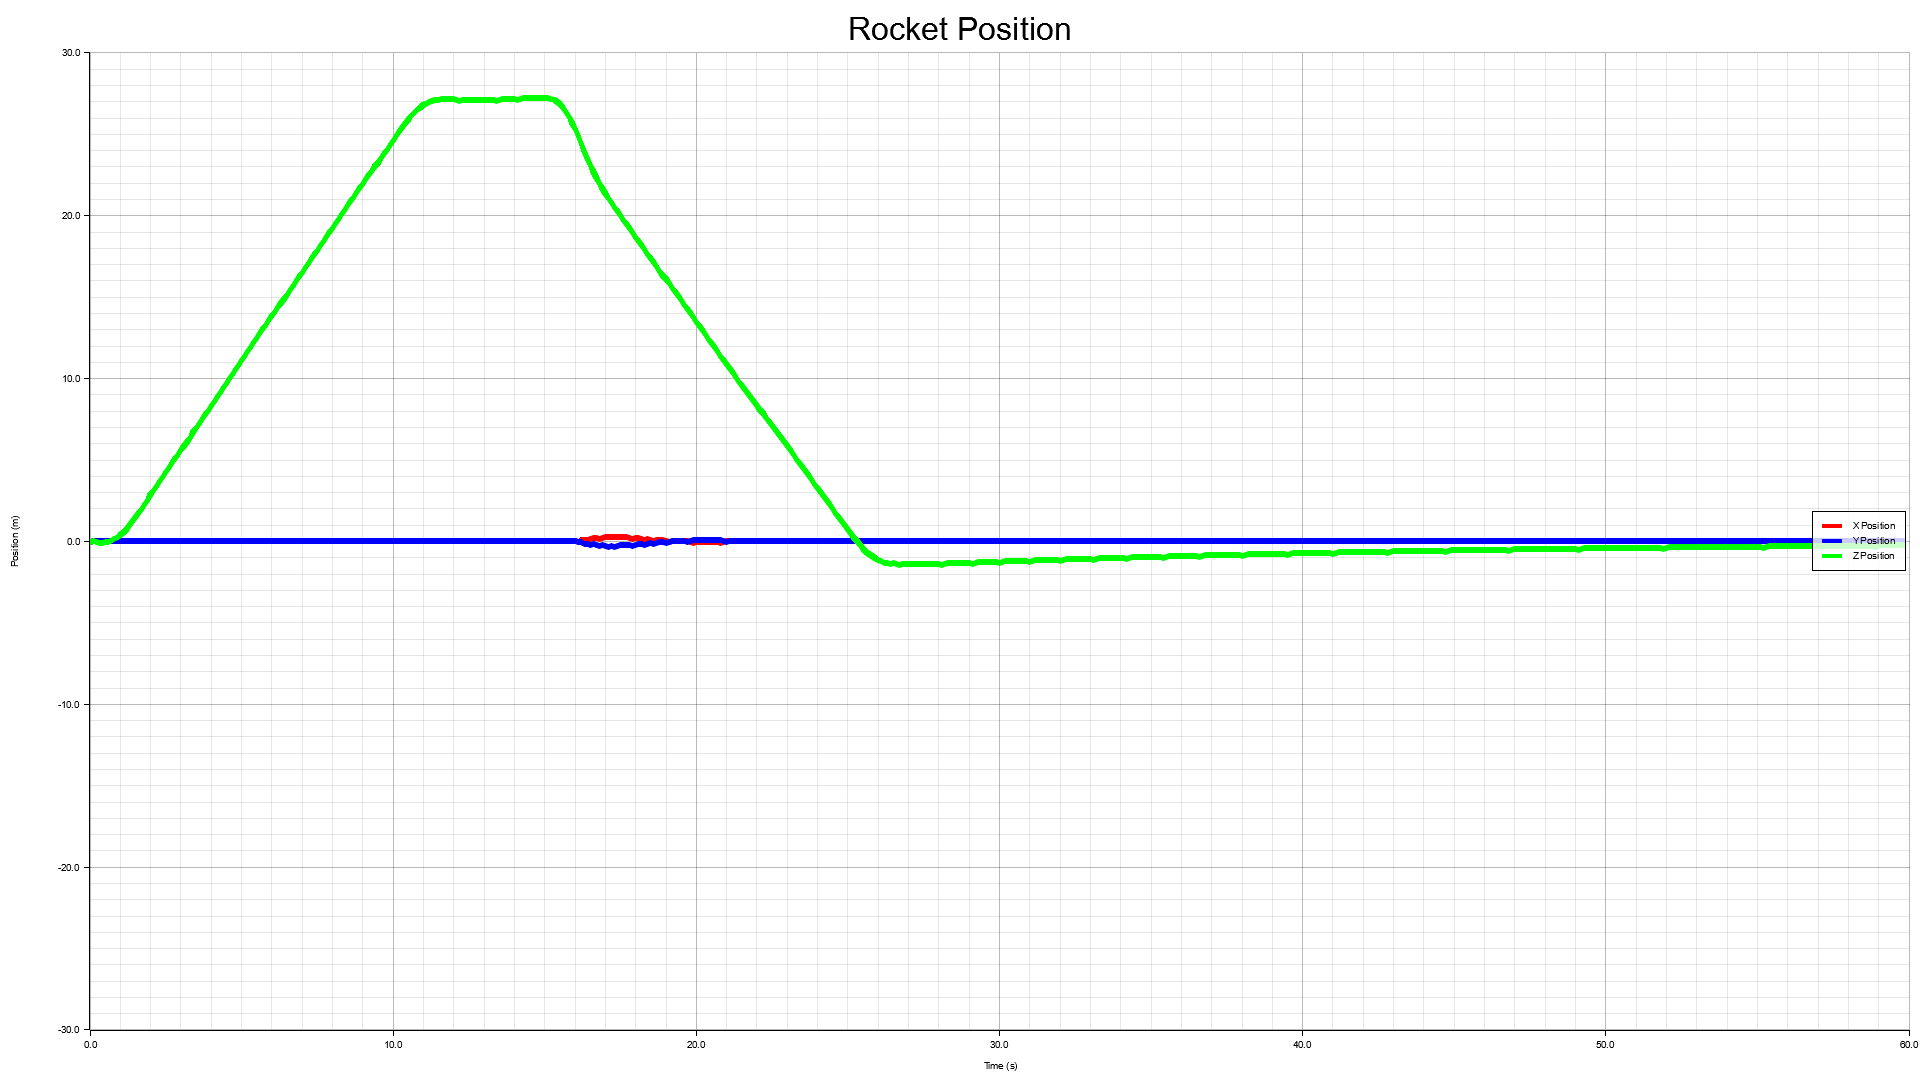
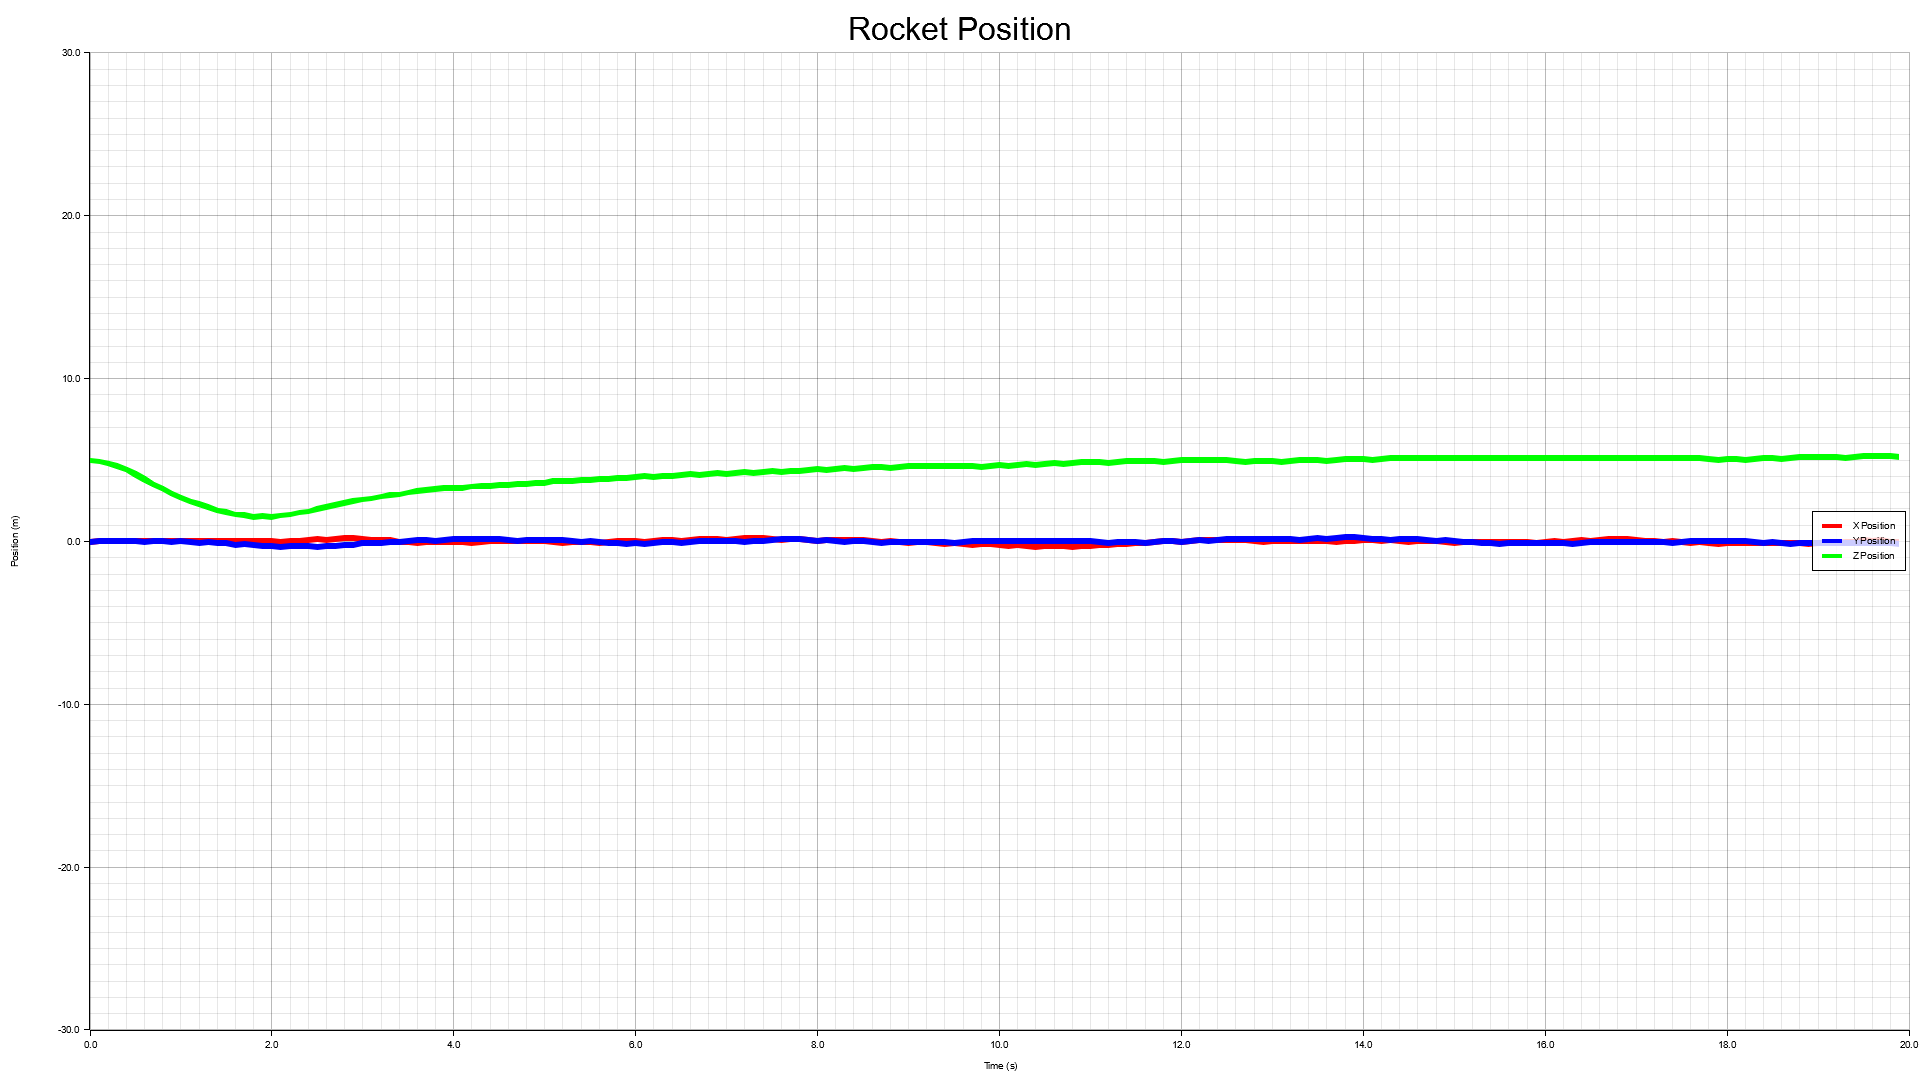
Add tethered hover scenario
Simulate tethered hover scenario with mass change of rocket.

diff --git a/MPC/src/main.rs b/MPC/src/main.rs
@@ -1,7 +1,9 @@
 mod mpc_crate;
+mod externaldynamics;
 
 // use mpc_crate for MPC functions
 use mpc_crate::{mpc_main, dynamics};
+use externaldynamics::{real_dynamics};
 use ndarray::{Array1, Array2};
 use std::f64::consts::PI;
 
@@ -14,25 +16,25 @@ fn main() {
     let n = 13; // [x, y, z, qx, qy, qz, qw, x_dot, y_dot, z_dot, wx, wy, wz]
     let m = 3;  // [gimbal_theta, gimbal_phi, thrust]
     let n_steps = 10;
-    let t_total = 60.0;
+    // let t_total = 60.0; // 60 seconds for lander scenario
+    let t_total = 20.0; // 20 seconds for tethered hover scenario
     let dt = 0.1;
     let iters = (t_total / dt) as usize;
 
     // Initial state: at origin, level, stationary, quaternion [0,0,0,1]
     let mut x = Array1::<f64>::zeros(n);
+    x[2] = 5.0;
     x[6] = 1.0; // qw = 1 (unit quaternion)
 
     // Hover at set point
     let mut xref = Array1::<f64>::zeros(n);
-    xref[0] = 1.0;
-    xref[1] = -1.0;
-    xref[2] = 10.0;
+    
     xref[6] = 1.0; // reference orientation: level (unit quaternion)
 
     let mut z_integral = 0.0;
     let mut y_integral = 0.0;
     let mut x_integral = 0.0;
-    let ki_z = 0.05;
+    let ki_z = 0.2;
     let ki_y = 0.01;
     let ki_x = 0.01;
 
@@ -41,7 +43,7 @@ fn main() {
     let mut xref_traj_vec: Vec<Array1<f64>> = xref_traj.axis_iter(ndarray::Axis(0)).map(|row| row.to_owned()).collect();
 
     // Warm start: hover thrust (thrust = mass * gravity, gimbal angles = 0)
-    let m_rocket = 80.0;
+    let mut m_rocket = 80.0;
     let g = 9.81;
     let hover_thrust = m_rocket * g;
     let mut u_warm = Array2::<f64>::zeros((n_steps, m));
@@ -57,7 +59,7 @@ fn main() {
         1.0, 1.0, 1.0          // angular velocities wx, wy, wz
     ];
     let q = Array2::<f64>::from_diag(&Array1::from(q_vec.clone()));
-    let r = Array2::<f64>::from_diag(&Array1::from(vec![000.0, 000.0, 0.00]));
+    let r = Array2::<f64>::from_diag(&Array1::from(vec![0000.0, 0000.0, 0.00]));
     // let qn = q.clone();
     let qn = Array2::<f64>::from_diag(&Array1::from(vec![
         200.0, 200.0, 5000.0,   // position x, y, z
@@ -113,6 +115,11 @@ fn main() {
             xref_traj_vec = xref_traj.axis_iter(ndarray::Axis(0)).map(|row| row.to_owned()).collect();
         } 
 
+        
+        xref[0] = 0.0;
+        xref[1] = 0.0;
+        xref[2] = 5.0;
+
         let z_error = xref[2] - x[2];
         z_integral += z_error * dt;
         let mut x_ref_mod = xref.clone();
@@ -133,41 +140,31 @@ fn main() {
             xref_traj_vec[i][1] = x_ref_mod[1];
         }
 
-
         // display progress
         println!("Time step: {}/{}", x_history.len() + 1, iters);
         // Solve MPC to get optimal control sequence
 
         // solve using mpc_main
         // let mut u_warm_vec: Vec<Array1<f64>> = u_warm.axis_iter(ndarray::Axis(0)).map(|row| row.to_owned()).collect();
-        // let (u_warm_vec, x_new, u_apply) = mpc_main(&x, &mut u_warm_vec, &xref_traj_vec, &q, &r, &qn, &u_min, &u_max, 2, 0.05);
+        // let (u_warm_vec, x_new, mut u_apply) = mpc_main(&x, &mut u_warm_vec, &xref_traj_vec, &q, &r, &qn, &u_min, &u_max, 2, 0.05);
         
         // OR we solve using OpEn
         let (mut u_apply, u_warm) = mpc_crate::OpEnSolve(&x, &u_warm.axis_iter(ndarray::Axis(0)).map(|row| row.to_owned()).collect(), &xref_traj_vec, &q, &r, &qn, &smoothing_weight, &mut panoc_cache);
-
-        //use an average between the current and the past 2 control inputs for smoother application
-        /*
-        if k >= 2 {
-            let u_prev2 = u_history[k - 2].clone();
-            let u_prev1 = u_history[k - 1].clone();
-            u_apply = (&u_prev2 + &u_prev1 + &u_apply) / 3.0;
-        } else if k == 1 {
-            let u_prev1 = u_history[k - 1].clone();
-            u_apply = (&u_prev1 + &u_apply) / 2.0;
-        }
-            */
 
         // exponential filter
         if k >= 1 {
             let alpha = 0.4; // smoothing factor
             let u_prev = u_history[k - 1].clone();
             u_apply = alpha * &u_apply + (1.0 - alpha) * &u_prev;
-        }
+        } 
 
         u_history.push(u_apply.clone());
 
+        m_rocket = m_rocket - 0.001 * u_apply[2] * dt; // decrease mass directly proportional to thrust
+        println!("Time step: {}, Mass: {}", k as f64 * dt, m_rocket);
+
         // Simulate dynamics for one time step
-        x = dynamics(&x, &u_apply);
+        x = real_dynamics(&x, &u_apply, Some(m_rocket));
 
         // print x and u for debugging
         // println!("Time step: {}", x_history.len());

diff --git a/MPC/src/externaldynamics.rs b/MPC/src/externaldynamics.rs
@@ -1,0 +1,132 @@
+// A crate for realistic dynamics of lander
+// Hansel Zhang
+
+use ndarray::{Array1, Array2};
+use ndarray::s;
+use ndarray_linalg::{Inverse, Norm};
+use ndarray::ArrayView1;
+use rand::Rng;
+
+pub fn real_dynamics(x: &Array1<f64>, u: &Array1<f64>, mass: Option<f64>) -> Array1<f64> {
+    // let mut x_next = Array1::<f64>::zeros(x.len());
+    // Constants
+    let m = mass.unwrap_or(80.0);
+    let g = 9.81;
+    let ixx = 20.0;
+    let iyy = 20.0;
+    let izz = 10.0;
+    let dt = 0.1;
+
+    // Inertia matrix and inverse
+    let i = Array2::from_diag(&Array1::from(vec![ixx, iyy, izz]));
+    let i_inv = i.clone().inv().unwrap();
+
+    // Unpack state
+    let x_pos = x[0];
+    let y_pos = x[1];
+    let z_pos = x[2];
+    let qx = x[3];
+    let qy = x[4];
+    let qz = x[5];
+    let qw = x[6];
+    let x_dot = x[7];
+    let y_dot = x[8];
+    let z_dot = x[9];
+    let wx = x[10];
+    let wy = x[11];
+    let wz = x[12];
+
+    // Unpack control
+    let gimbal_theta = u[0];
+    let gimbal_phi = u[1];
+    let mut thrust = u[2];
+    if thrust < 0.0 { thrust = 0.0; }
+
+    // Thrust direction in body frame
+    let tx = gimbal_theta.sin() * gimbal_phi.cos();
+    let ty = gimbal_phi.sin();
+    let tz = gimbal_theta.cos() * gimbal_phi.cos();
+    let thrust_b = Array1::from(vec![tx * thrust, ty * thrust, tz * thrust]);
+
+    // Quaternion normalization
+    let mut q = Array1::from(vec![qx, qy, qz, qw]);
+    let q_norm = q.dot(&q).sqrt();
+    if q_norm < 1e-8 {
+        q = Array1::from(vec![0.0, 0.0, 0.0, 1.0]);
+    } else {
+        q = q.mapv(|v| v / q_norm);
+    }
+    let qx = q[0];
+    let qy = q[1];
+    let qz = q[2];
+    let qw = q[3];
+
+    // Rotation matrix from quaternion
+    let r = Array2::from_shape_vec((3, 3), vec![
+        1.0 - 2.0 * qy * qy - 2.0 * qz * qz, 2.0 * qx * qy - 2.0 * qz * qw, 2.0 * qx * qz + 2.0 * qy * qw,
+        2.0 * qx * qy + 2.0 * qz * qw, 1.0 - 2.0 * qx * qx - 2.0 * qz * qz, 2.0 * qy * qz - 2.0 * qx * qw,
+        2.0 * qx * qz - 2.0 * qy * qw, 2.0 * qy * qz + 2.0 * qx * qw, 1.0 - 2.0 * qx * qx - 2.0 * qy * qy,
+    ]).unwrap();
+
+    // Acceleration in world frame
+    let acc = r.dot(&thrust_b) / m - Array1::from(vec![0.0, 0.0, g]);
+    let x_ddot = acc[0];
+    let y_ddot = acc[1];
+    let z_ddot = acc[2];
+
+    // TVC torque
+    let d = 1.0;
+    let r_cp = Array1::from(vec![0.0, 0.0, -d]);
+    let torque_b = Array1::from(vec![
+        r_cp[1] * thrust_b[2] - r_cp[2] * thrust_b[1],
+        r_cp[2] * thrust_b[0] - r_cp[0] * thrust_b[2],
+        r_cp[0] * thrust_b[1] - r_cp[1] * thrust_b[0],
+    ]);
+
+    // Angular velocity
+    let omega = Array1::from(vec![wx, wy, wz]);
+    let omega_cross_i_omega = Array1::from(vec![
+        omega[1] * (iyy * omega[2]) - omega[2] * (izz * omega[1]),
+        omega[2] * (izz * omega[0]) - omega[0] * (ixx * omega[2]),
+        omega[0] * (ixx * omega[1]) - omega[1] * (iyy * omega[0]),
+    ]);
+    let omega_dot = i_inv.dot(&(torque_b - omega_cross_i_omega));
+
+    // Quaternion derivative
+    let dqdt = Array1::from(vec![
+        qw * wx + qy * wz - qz * wy,
+        qw * wy + qz * wx - qx * wz,
+        qw * wz + qx * wy - qy * wx,
+        -qx * wx - qy * wy - qz * wz,
+    ]).mapv(|v| 0.5 * v);
+
+    // Euler integration
+    let x_pos_new = x_pos + dt * x_dot;
+    let y_pos_new = y_pos + dt * y_dot;
+    let z_pos_new = z_pos + dt * z_dot;
+    let mut q_new = q.clone() + dqdt.mapv(|v| dt * v);
+    let q_new_norm = q_new.dot(&q_new).sqrt();
+    q_new = q_new.mapv(|v| v / q_new_norm);
+    let x_dot_new = x_dot + dt * x_ddot;
+    let y_dot_new = y_dot + dt * y_ddot;
+    let z_dot_new = z_dot + dt * z_ddot;
+    let wx_new = wx + dt * omega_dot[0];
+    let wy_new = wy + dt * omega_dot[1];
+    let wz_new = wz + dt * omega_dot[2];
+
+    let x_next = Array1::from(vec![
+        x_pos_new, y_pos_new, z_pos_new,
+        q_new[0], q_new[1], q_new[2], q_new[3],
+        x_dot_new, y_dot_new, z_dot_new,
+        wx_new, wy_new, wz_new,
+    ]);
+
+    // Add noise
+    let mut rng = rand::thread_rng();
+    let noise_std = 0.01;
+    let noise = Array1::from_shape_fn(x_next.len(), |_| rng.gen_range(-noise_std..noise_std));
+    // println!("Noise: {:?}", noise);
+    let x_next_noisy = &x_next + &noise;
+
+    x_next_noisy
+}
